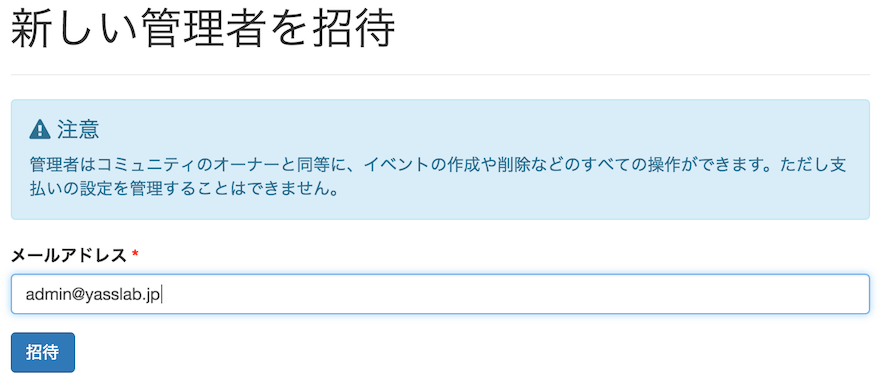
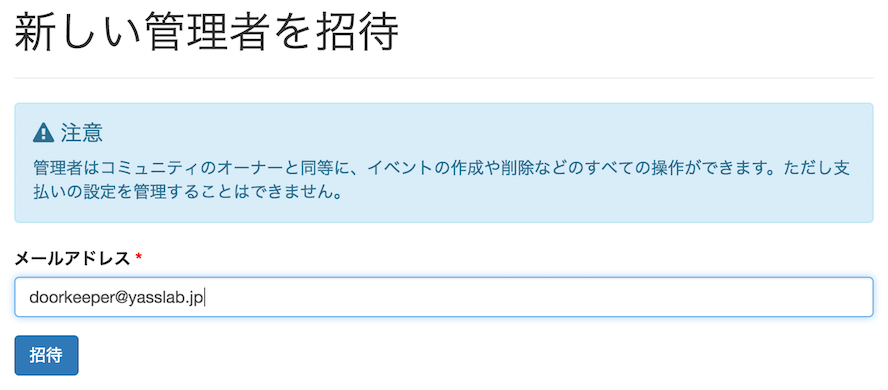
Use doorkeeper@yasslab.jp instead of admin@yasslab.jp

diff --git a/README.md b/README.md
@@ -57,7 +57,7 @@ Doorkeeper では，コミュニティのオーナーが決済をする仕組み
 
 ### 1. 管理者として追加 :incoming_envelope: 
 
-まずは、[主催しているコミュニティのページ](https://manage.doorkeeper.jp/user/administered_groups)から当該コミュニティをクリックし、コミュニティ管理画面に行ってください．その後，コミュニティ管理画面から「設定」→「管理者」→「新しい管理者を招待」と進み，YassLab アカウント (admin@yasslab.jp) を追加してください．すると弊社のアカウント宛にメールで通知が来るので，弊社の担当者が３営業日以内に承諾いたします.
+まずは、[主催しているコミュニティのページ](https://manage.doorkeeper.jp/user/administered_groups)から当該コミュニティをクリックし、コミュニティ管理画面に行ってください．その後，コミュニティ管理画面から「設定」→「管理者」→「新しい管理者を招待」と進み，YassLab アカウント (doorkeeper@yasslab.jp) を追加してください．すると弊社のアカウント宛にメールで通知が来るので，弊社の担当者が３営業日以内に承諾いたします.
 
 ![管理者の追加例](https://raw.githubusercontent.com/yasslab/doorkeeper_sponsorship/65cc0e77d695ec037b8fecccdc2495fa6d76bcbd/img/doorkeeper_ss-2.png)
 
